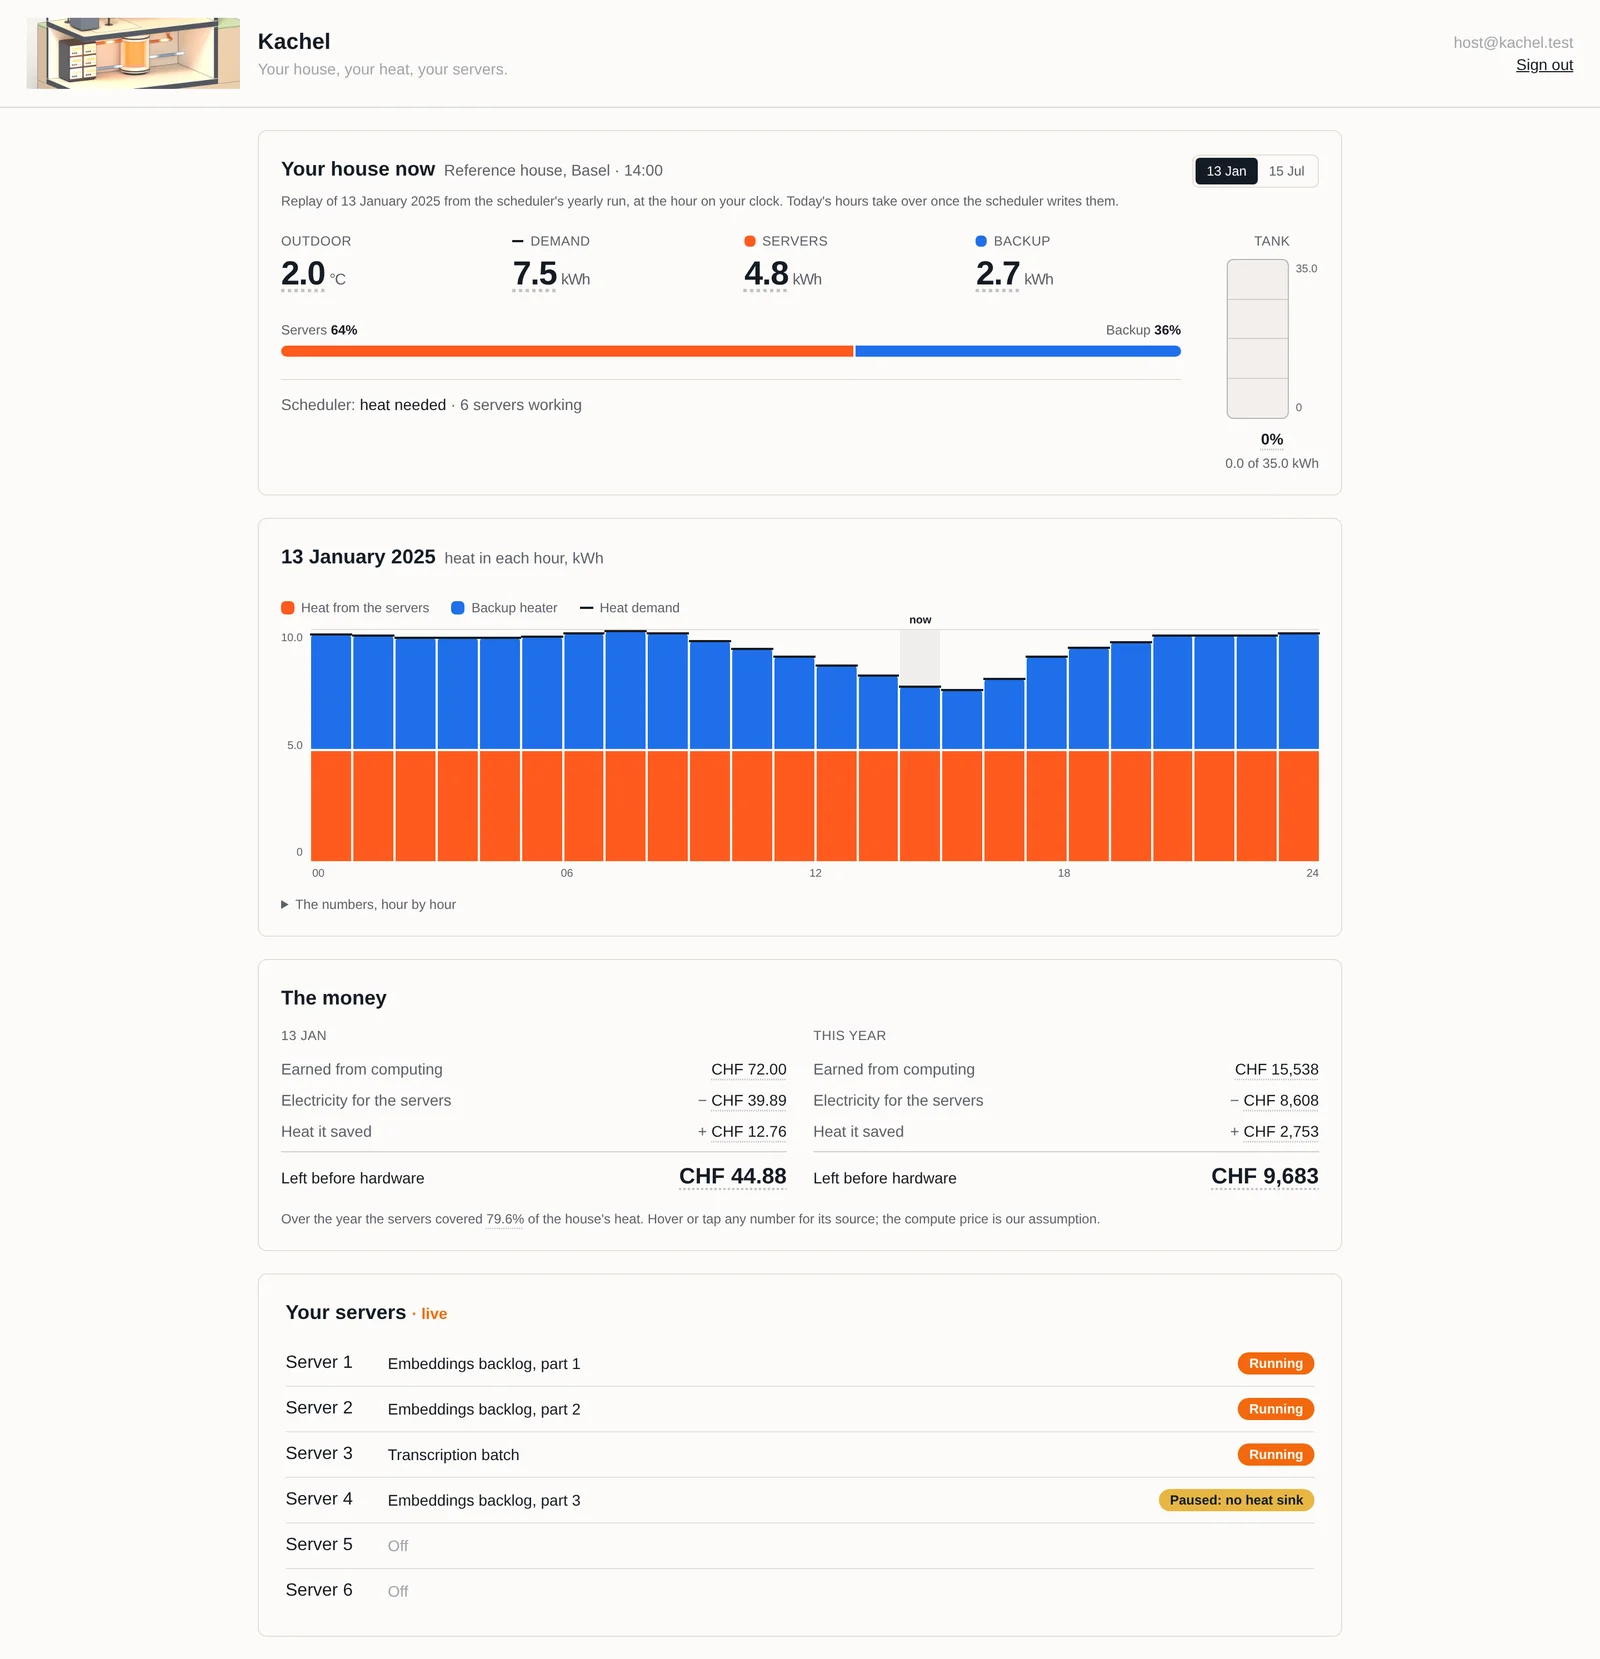
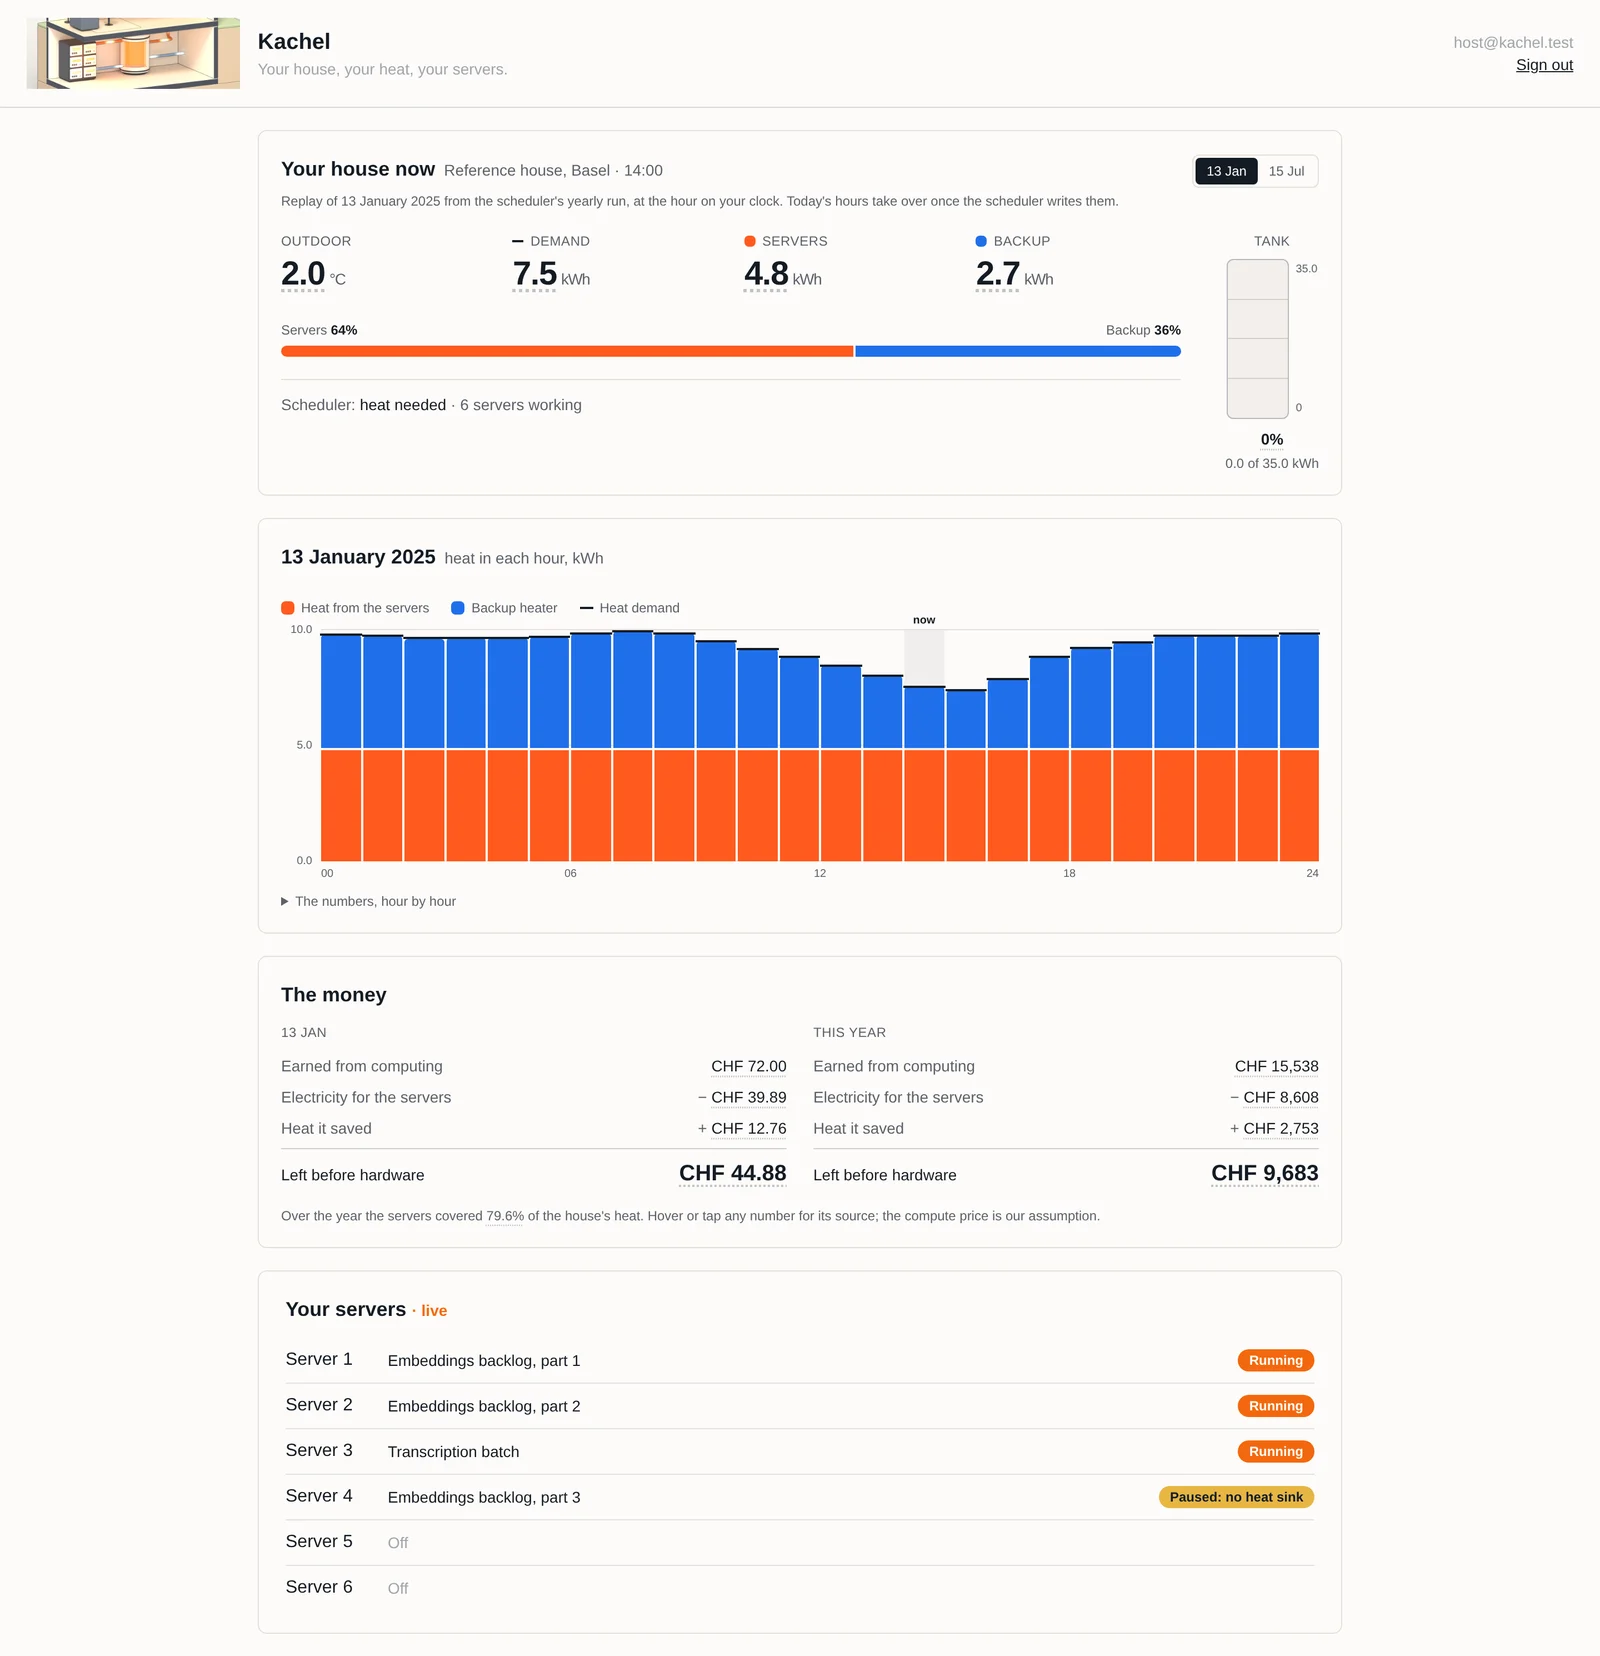
Place the chart's axis labels on their grid lines
Hour labels sit at h/24 of the plot and kWh labels on their lines. The two bar segments are placed by height, so the gap between them is the same in every hour.

diff --git a/apps/host/src/house/DayChart.tsx b/apps/host/src/house/DayChart.tsx
@@ -35,77 +35,88 @@ export function DayChart({ day, now }: { day: Day; now: number | undefined }) {
         ))}
       </ul>
       <div className="flex gap-2">
-        <div className="flex h-44 flex-col justify-between text-right text-[10px] text-muted tabular-nums sm:h-52">
-          <span>{kwh(top)}</span>
-          <span>{kwh(top / 2)}</span>
-          <span>0</span>
-        </div>
-        <div className="relative h-44 flex-1 sm:h-52">
+        <div className="relative h-44 w-7 text-right text-[10px] text-muted tabular-nums sm:h-52">
           {[0, 50, 100].map((t) => (
-            <div
-              key={t}
-              className="absolute inset-x-0 border-t border-grid"
-              style={{ bottom: `${t}%` }}
-            />
+            <span key={t} className="absolute right-0 translate-y-1/2" style={{ bottom: `${t}%` }}>
+              {kwh((top * t) / 100)}
+            </span>
           ))}
-          <ol className="absolute inset-0 flex gap-px sm:gap-0.5" aria-label="Hour by hour">
-            {day.hours.map((r, h) => (
-              <li
-                key={h}
-                tabIndex={r ? 0 : -1}
-                className={`group relative flex-1 outline-none hover:bg-ink/[0.04] focus-visible:ring-2 focus-visible:ring-glacier ${h === now ? "bg-ink/[0.06]" : ""}`}
-              >
-                {r && (
-                  <>
-                    <div
-                      className="absolute inset-x-0 bottom-0 flex flex-col justify-end gap-0.5"
-                      style={{ height: pct(r.heat_used + r.backup_kwh) }}
-                    >
-                      {r.backup_kwh > 0 && (
-                        <div
-                          className="basis-0 rounded-t-[3px] bg-glacier"
-                          style={{ flexGrow: r.backup_kwh }}
-                        />
-                      )}
+        </div>
+        <div className="flex-1">
+          <div className="relative h-44 sm:h-52">
+            {[0, 50, 100].map((t) => (
+              <div
+                key={t}
+                className="absolute inset-x-0 border-t border-grid"
+                style={{ bottom: `${t}%` }}
+              />
+            ))}
+            <ol className="absolute inset-0 flex gap-px sm:gap-0.5" aria-label="Hour by hour">
+              {day.hours.map((r, h) => (
+                <li
+                  key={h}
+                  tabIndex={r ? 0 : -1}
+                  className={`group relative flex-1 outline-none hover:bg-ink/[0.04] focus-visible:ring-2 focus-visible:ring-glacier ${h === now ? "bg-ink/[0.06]" : ""}`}
+                >
+                  {r && (
+                    <>
                       {r.heat_used > 0 && (
                         <div
-                          className={`basis-0 bg-ember ${r.backup_kwh > 0 ? "" : "rounded-t-[3px]"}`}
-                          style={{ flexGrow: r.heat_used }}
+                          className={`absolute inset-x-0 bottom-0 bg-ember ${r.backup_kwh > 0 ? "" : "rounded-t-[3px]"}`}
+                          style={{ height: pct(r.heat_used) }}
                         />
                       )}
-                    </div>
-                    <div
-                      className="absolute -inset-x-px h-0.5 bg-ink"
-                      style={{ bottom: `calc(${pct(r.demand_kwh)} - 1px)` }}
-                    />
-                    <div
-                      role="tooltip"
-                      className={`pointer-events-none absolute hidden bottom-full z-20 mb-2 w-44 rounded-md border border-grid bg-paper p-2 text-xs text-ink shadow-lg group-hover:block group-focus:block ${h >= 16 ? "right-0" : h >= 8 ? "left-1/2 -translate-x-1/2" : "left-0"}`}
-                    >
-                      <p className="font-semibold">{clock(h)}</p>
-                      <p>Servers {kwh(r.heat_used)} kWh</p>
-                      <p>Backup {kwh(r.backup_kwh)} kWh</p>
-                      <p>Demand {kwh(r.demand_kwh)} kWh</p>
-                      <p className="mt-1 text-muted">
-                        heat_state: heat_used, backup_kwh, demand_kwh
-                      </p>
-                    </div>
-                  </>
-                )}
-                {h === now && (
-                  <span className="absolute -top-4 left-1/2 -translate-x-1/2 text-[10px] font-semibold text-ink">
-                    now
-                  </span>
-                )}
-              </li>
+                      {r.backup_kwh > 0 && (
+                        <div
+                          className="absolute inset-x-0 rounded-t-[3px] bg-glacier"
+                          style={{
+                            bottom: r.heat_used > 0 ? `calc(${pct(r.heat_used)} + 2px)` : 0,
+                            height:
+                              r.heat_used > 0
+                                ? `calc(${pct(r.backup_kwh)} - 2px)`
+                                : pct(r.backup_kwh),
+                          }}
+                        />
+                      )}
+                      <div
+                        className="absolute -inset-x-px h-0.5 bg-ink"
+                        style={{ bottom: `calc(${pct(r.demand_kwh)} - 1px)` }}
+                      />
+                      <div
+                        role="tooltip"
+                        className={`pointer-events-none absolute hidden bottom-full z-20 mb-2 w-44 rounded-md border border-grid bg-paper p-2 text-xs text-ink shadow-lg group-hover:block group-focus:block ${h >= 16 ? "right-0" : h >= 8 ? "left-1/2 -translate-x-1/2" : "left-0"}`}
+                      >
+                        <p className="font-semibold">{clock(h)}</p>
+                        <p>Servers {kwh(r.heat_used)} kWh</p>
+                        <p>Backup {kwh(r.backup_kwh)} kWh</p>
+                        <p>Demand {kwh(r.demand_kwh)} kWh</p>
+                        <p className="mt-1 text-muted">
+                          heat_state: heat_used, backup_kwh, demand_kwh
+                        </p>
+                      </div>
+                    </>
+                  )}
+                  {h === now && (
+                    <span className="absolute -top-4 left-1/2 -translate-x-1/2 text-[10px] font-semibold text-ink">
+                      now
+                    </span>
+                  )}
+                </li>
+              ))}
+            </ol>
+          </div>
+          <div className="relative mt-1 h-3 text-[10px] text-muted tabular-nums">
+            {[0, 6, 12, 18, 24].map((h) => (
+              <span
+                key={h}
+                className={`absolute ${h === 0 ? "" : h === 24 ? "-translate-x-full" : "-translate-x-1/2"}`}
+                style={{ left: `${(h / 24) * 100}%` }}
+              >
+                {clock(h).slice(0, 2)}
+              </span>
             ))}
-          </ol>
+          </div>
         </div>
-      </div>
-      <div className="ml-7 flex justify-between pt-1 text-[10px] text-muted tabular-nums">
-        {[0, 6, 12, 18, 24].map((h) => (
-          <span key={h}>{clock(h).slice(0, 2)}</span>
-        ))}
       </div>
       <details className="mt-3 text-xs">
         <summary className="cursor-pointer text-muted">The numbers, hour by hour</summary>
